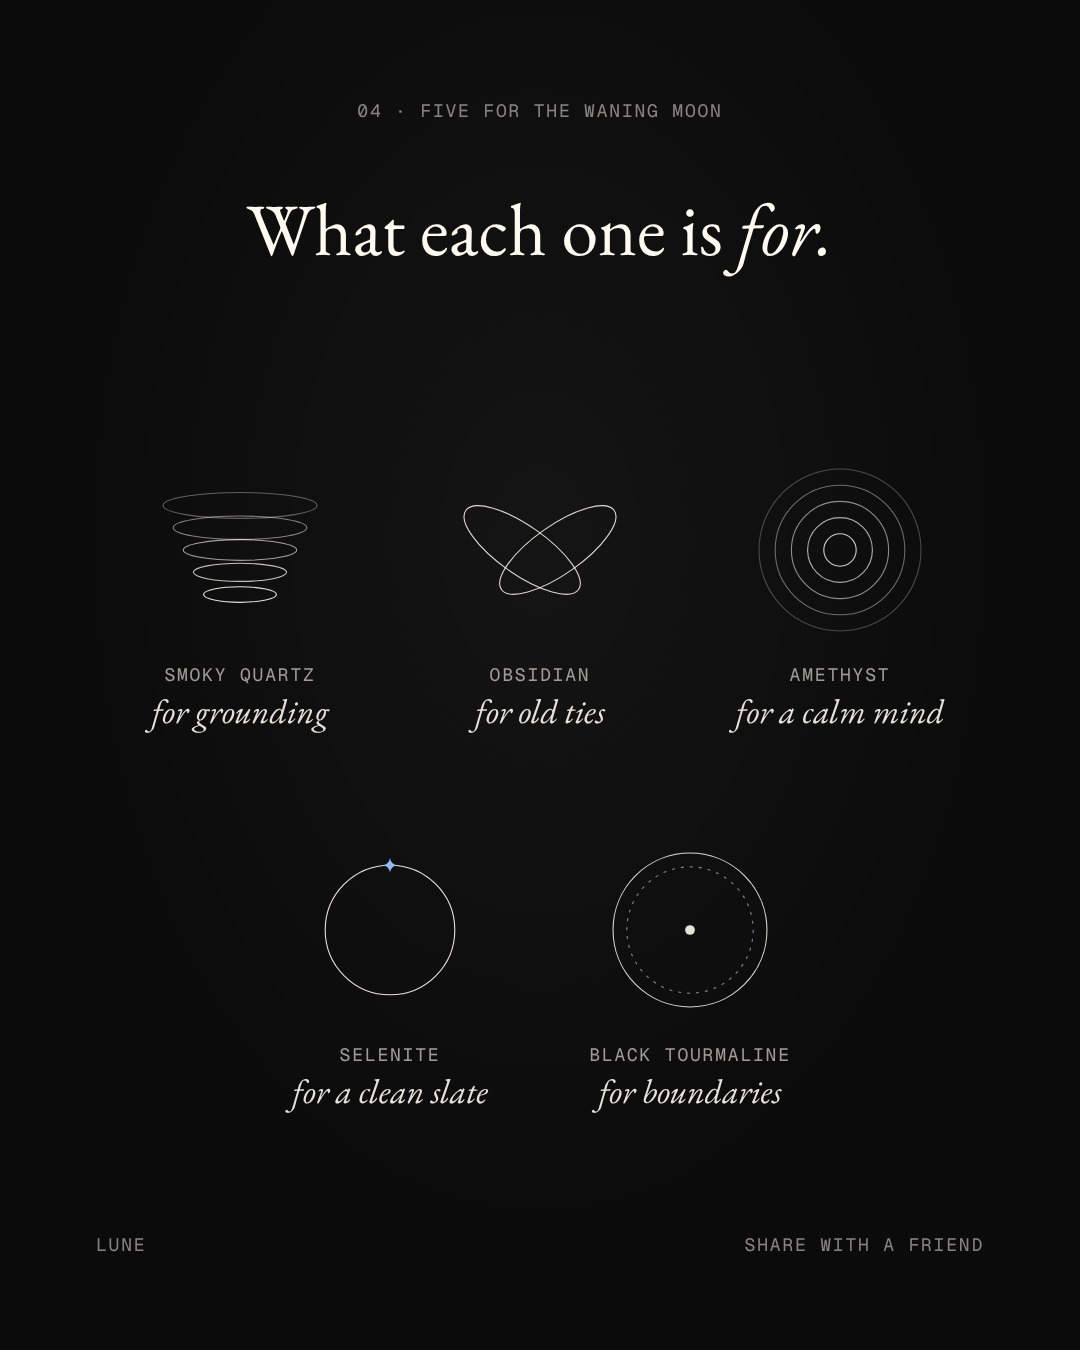
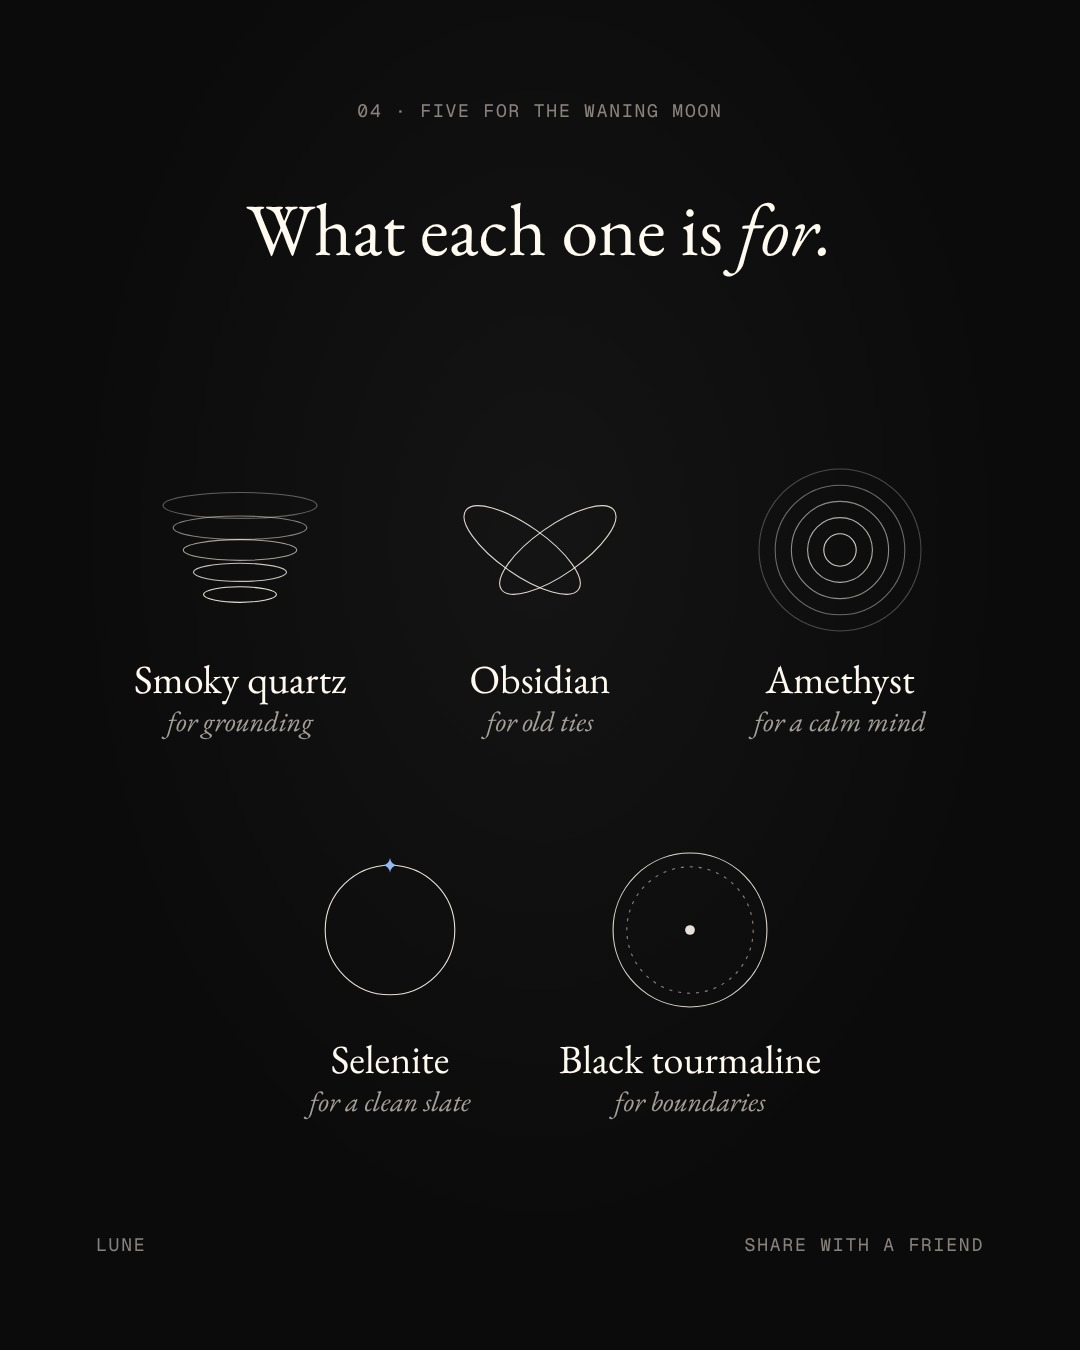
Crystals carousel: stone names as the big line, note in the empty cell
Claude-Session: https://claude.ai/code/session_01RcPwiV74pTBPtN1QyzzEVg

diff --git a/2026-11/w45/energia/carrossel.html b/2026-11/w45/energia/carrossel.html
@@ -41,7 +41,7 @@ const S=[
  {label:'01 · The stone', title:'Press a quartz crystal and it answers with a tiny <i>electric charge.</i>', sub:'It’s called piezoelectricity. It’s how quartz keeps time in your watch, vibrating 32,768 times a second.', form:'wave', end:'Curie & Curie, 1880', marks:['still','pressed']},
  {label:'02 · The intention', title:'Your brain is 2% of your body, and uses 20% of its <i>energy.</i>', sub:'Every thought, every intention you hold, runs on that energy.', form:'mind', end:'Raichle & Gusnard, PNAS, 2002'},
  {label:'03 · Together', title:'Press the stone as you name your intention. It becomes a <i>cue</i> your mind returns to.', sub:'In 94 studies, people who tied a clear intention to a cue were far more likely to follow through.', form:'together', marks:['stone','intention'], end:'Gollwitzer & Sheeran, 2006'},
- {label:'04 · Five for the waning moon', title:'What each one is <i>for.</i>', grid:[['grounding','Smoky quartz','for grounding'],['ties','Obsidian','for old ties'],['calm','Amethyst','for a calm mind'],['clean','Selenite','for a clean slate'],['bounds','Black tourmaline','for boundaries']], end:'Share with a friend'},
+ {label:'04 · Five for the waning moon', title:'What each one is <i>for.</i>', sub:'Each stone holds a different intention. Notice which name stays with you.', grid:[['grounding','Smoky quartz','for grounding'],['ties','Obsidian','for old ties'],['calm','Amethyst','for a calm mind'],['clean','Selenite','for a clean slate'],['bounds','Black tourmaline','for boundaries']], end:'Share with a friend'},
  {label:'05 · How to hold it', title:'Hold it. Name what you release. <i>Breathe out.</i>', sub:'Then let it rest on your altar until the new moon on 9 November.', form:'steps', marks3:['hold','name','breathe out'], end:'Share with a friend'},
  {label:'06 · Choose one', title:'Which one is <i>calling you?</i>', sub:'Trust the first stone your eye went to. Save this for your altar.', form:'orbit', end:'More moon rituals · lunerituals.app'},
 ];
@@ -51,7 +51,7 @@ function marks(x0,x1,y){ if(P.form==='together'){return} if(P.marks){svg+=T(x0,y
 function grid(cx,cy,w,h){ // 3 + 2 layout, labels below each form with clear gap
  const g=P.grid, r=Math.min(w/3,h/2)*0.27, rows=[[0,1,2],[3,4]];
  rows.forEach((row,ri)=>{const y=cy-h/4+ri*h/2-20; row.forEach((k,ci)=>{const n=row.length;const x=cx+(ci-(n-1)/2)*(w/3);
-   svg+=F[g[k][0]](x,y,r); svg+=T(x,y+r+50,g[k][1].toUpperCase(),{op:.6,s:18})+T(x,y+r+92,g[k][2],{f:'EB',s:34,i:1,op:.9});})});
+   svg+=F[g[k][0]](x,y,r); svg+=T(x,y+r+62,g[k][1],{f:'EB',s:40,op:1})+T(x,y+r+100,g[k][2],{f:'EB',s:28,i:1,op:.62});})});
 }
 function steps(cx,y,r){ svg+=F.steps(cx,y,r); P.marks3.forEach((m,i)=>svg+=T(cx+(i-1)*r*2,y+r*0.9*0.5+52,`0${i+1} · ${m.toUpperCase()}`,{s:18}))}
 function art(x,y,r,box){ if(P.grid) return grid(box.cx,box.cy,box.w,box.h); if(P.form==='steps') return steps(x,y,r);
@@ -74,7 +74,7 @@ if(DIR==='B'){ // GRID: thin frame; title cell + note cell; art lives in the big
  div(`top:${y0+92}px;left:${x0+40}px;width:${xm-x0-80}px;font-size:${big}px;line-height:1.08`,'eb',P.title);
  const right=P.cover?'Even a stone. 5 crystals to hold while you let go this waning moon.':(P.sub||'');
  div(`top:${y0+44}px;left:${xm+40}px;width:${x1-xm-80}px;font-size:${P.sub&&!P.cover?30:30}px;line-height:1.35;opacity:.8`,'eb',right);
- if(P.grid) art(0,0,0,{cx:540,cy:(ym+y1)/2+10,w:860,h:620}); else art(540,(ym+y1)/2-(P.form==='wave'?20:0),P.form==='wave'?175:(P.form==='steps'?120:150));
+ if(P.grid) art(0,0,0,{cx:540,cy:(ym+y1)/2-14,w:860,h:600}); else art(540,(ym+y1)/2-(P.form==='wave'?20:0),P.form==='wave'?175:(P.form==='steps'?120:150));
  div(`top:1220px;left:${M}px`,'gm d','Lune'); div(`top:1220px;right:${M}px`,'gm d',P.cover?'Swipe →':P.end);
 }
 if(DIR==='C'){ // EDITORIAL: big left title on top, small art low right, quiet notes low left
